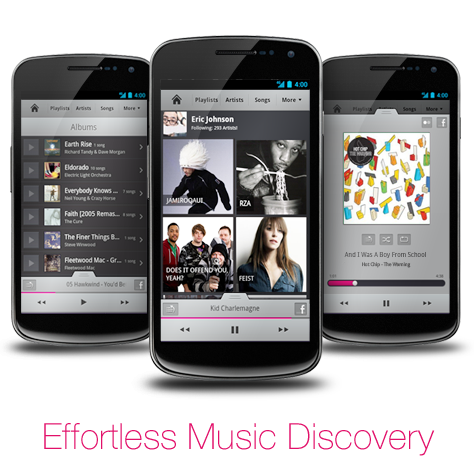
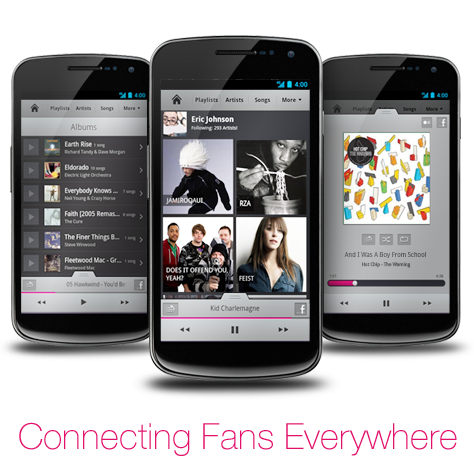
Updated carousel images per: https://www.pivotaltracker.com/story/show/36745641 .

Changed region(s): [[0.0295, 0.9211, 0.9747, 1.0]]

diff --git a/index.php b/index.php
@@ -75,20 +75,16 @@ jQuery(function(){
       <div id="slides">
         <img src="images/slides/1.png" id="slide1" border="0" style="display: none;"
           onmouseover="document.getElementById('slide1').style.cursor = 'pointer';"
-          onclick="_gaq.push(['_trackEvent','Image Clicked','Link Location: Slide 1 - mobile']);
-            window.location.assign('/mobile/');">
+          onclick="_gaq.push(['_trackEvent','Image Clicked','Link Location: Slide 1 - android']);
+            window.location.assign('/mobile/android/');">
         <img src="images/slides/2.png" id="slide2" border="0" style="display: none;"
           onmouseover="document.getElementById('slide2').style.cursor = 'pointer';"
           onclick="_gaq.push(['_trackEvent','Image Clicked','Link Location: Slide 2 - songbird.me']);
             window.location.assign('http://songbird.me');">
         <img src="images/slides/3.png" id="slide3" border="0" style="display: none;"
           onmouseover="document.getElementById('slide3').style.cursor = 'pointer';"
-          onclick="_gaq.push(['_trackEvent','Image Clicked','Link Location: Slide 3 - desktop']);
-            window.location.assign('/desktop/');">
-        <img src="images/slides/4.png" id="slide4" border="0" style="display: none;"
-          onmouseover="document.getElementById('slide4').style.cursor = 'pointer';"
-          onclick="_gaq.push(['_trackEvent','Image Clicked','Link Location: Slide 4 - products']);
-            window.location.assign('/products/');">
+          onclick="_gaq.push(['_trackEvent','Image Clicked','Link Location: Slide 3 - iOS']);
+            window.location.assign('/mobile/iOS');">
       </div>
     </div><!--rotator -->
     <div id="bottom-content">
